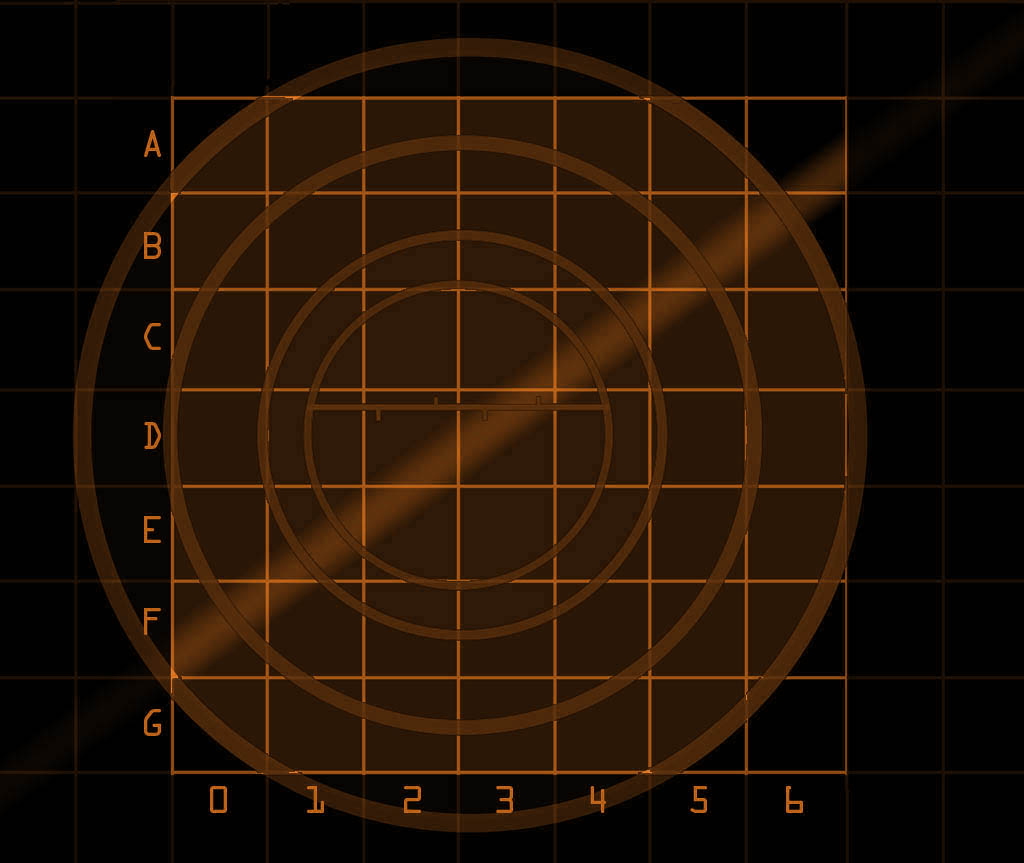
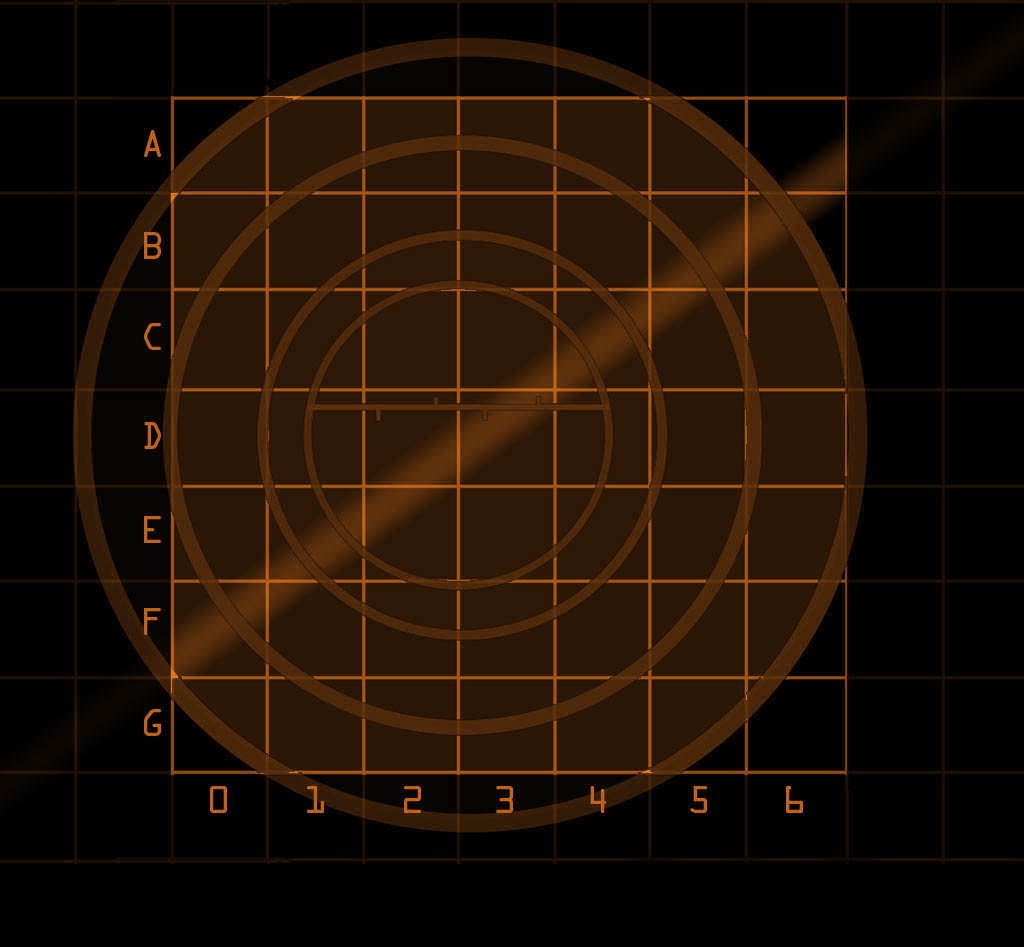
update game

diff --git a/game.html b/game.html
@@ -17,7 +17,6 @@
 	<link rel="preconnect" href="https://fonts.googleapis.com">
 <link rel="preconnect" href="https://fonts.gstatic.com" crossorigin>
 <link href="https://fonts.googleapis.com/css2?family=Montserrat:ital,wght@0,100;0,200;0,300;0,400;0,500;0,600;0,700;0,800;0,900;1,100;1,200;1,300;1,400;1,500;1,600;1,700;1,800;1,900&family=Roboto:ital,wght@0,300;0,400;1,300;1,400&display=swap" rel="stylesheet">
-	<title>Фотоальбомы</title>
 	<title>Battleship!</title>
 	<style>
 	div#board {
@@ -26,7 +25,7 @@
 	grid-column: 2/6;
 	position: relative;
 	width: 1024px;
-	height: 863px;
+	height: 947px;
 	margin: auto;
 	background: url("images/board.jpg") no-repeat;
 	}
@@ -43,8 +42,8 @@
 	border-spacing: 0px;
 	}
 	td {
-	width: 94px;
-	height: 94px;
+	width: 95px;
+	height: 95px;
 	}
 	form {
 	position: absolute;
@@ -64,6 +63,83 @@
 	.miss {
 	background: url("images/miss.png") no-repeat center center;
 	}
+
+	@media screen and (max-width: 1200px) {
+	div#board {
+	margin-top: 35px;
+	margin-bottom: 35px;
+	grid-column: 1/2;
+	position: relative;
+	width: 760px;
+	height: 703px;
+	background-size: cover;
+	}
+
+	form {
+	position: absolute;
+	bottom: 0px;
+	right: 0px;
+	padding: 0px;
+	background-color: rgb(211, 135, 21);
+	}
+
+	td {
+	width: 70px;
+	height: 70px;
+	}
+
+	table {
+	position: absolute;
+	left: 130px;
+	top: 78px;
+	border-spacing: 0px;
+	}
+
+	.hit {
+	background: url("images/ship.png") no-repeat center center;
+	background-size: contain;
+
+	}
+	.miss {
+	background: url("images/miss.png") no-repeat center center;
+	background-size: contain;
+	}
+
+}
+@media screen and (max-width: 760px) {
+	div#board {
+	margin-top: 35px;
+	margin-bottom: 35px;
+	grid-column: 1/2;
+	position: relative;
+	width: 480px;
+	height: 444px;
+	background-size: cover;
+	}
+
+	td {
+	width: 45px;
+	height: 45px;
+	}
+
+	table {
+	position: absolute;
+	left: 80px;
+	top: 50px;
+	border-spacing: 0px;
+	}
+
+	.hit {
+	background: url("images/ship.png") no-repeat center center;
+	background-size: contain;
+
+	}
+	.miss {
+	background: url("images/miss.png") no-repeat center center;
+	background-size: contain;
+	}
+
+}
 	</style>
 </head>
 <body>
@@ -89,7 +165,8 @@
 			</div>
 		</header>
 		<div class="contact">
-			<img src="images/bag1.png" alt="bag" />
+			<a href="catalog.html #cart"><img src="images/bag1.png" alt="bag" /></a>
+		</div>
 		</div>
 	</div>
 <div class="wrapper">

diff --git a/Contact.html b/Contact.html
@@ -42,7 +42,8 @@
 			</div>
 		</header>
 		<div class="contact">
-			<img src="images/bag1.png" alt="bag" />
+			<a href="catalog.html #cart"><img src="images/bag1.png" alt="bag" /></a>
+		</div>
 		</div>
 	</div>
 <div class="wrapper">

diff --git a/index1.html b/index1.html
@@ -49,7 +49,7 @@
 		<!--УШЛО МЕНЮ-->
 
 		<div class="contact">
-			<img src="images/bag1.png" alt="bag" />
+			<a href="catalog.html #cart"><img src="images/bag1.png" alt="bag" /></a>
 		</div>
 	</div>
 	<div class="wrapper">
